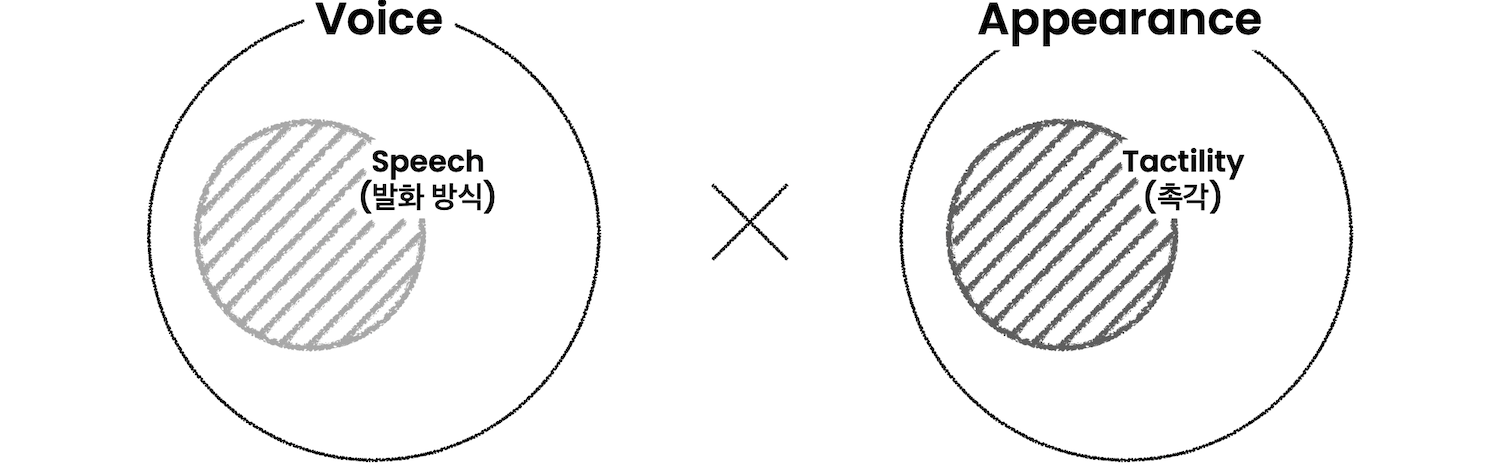
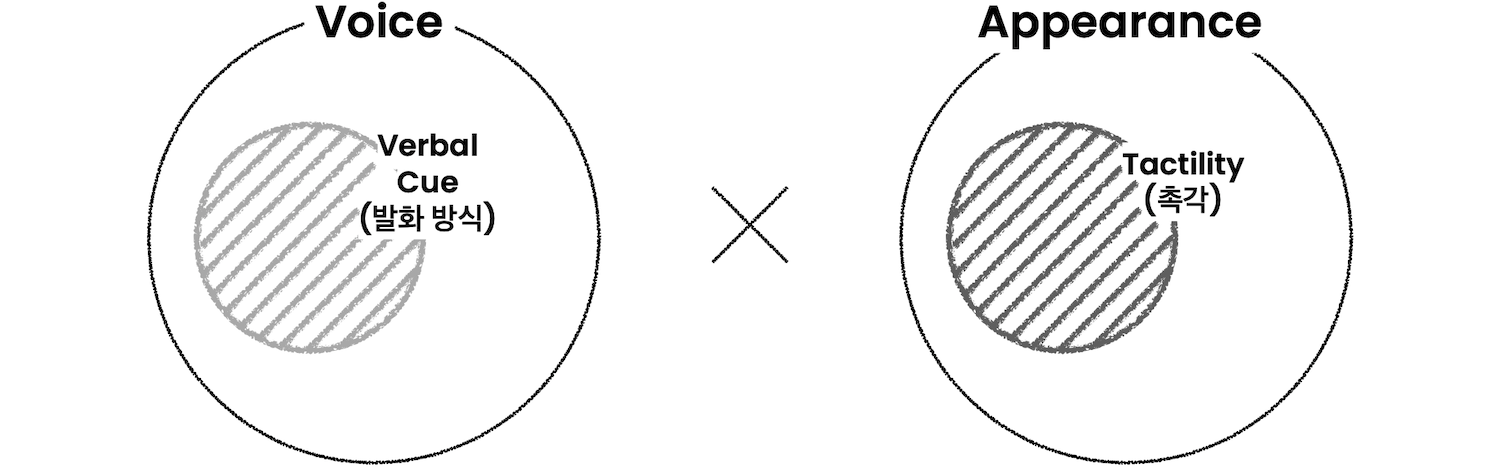
210214_1

diff --git a/_posts/projects/2021-01-01-modularsmartspeaker.md b/_posts/projects/2021-01-01-modularsmartspeaker.md
@@ -49,12 +49,12 @@ Design Question: "사람들의 **선호**에 맞게 **변경**할 수 있는 스
 <br>
 
 스마트 스피커의 **음성**을 통한 상호작용은 사용자에게 다음과 같은 영향을 준다.  
-01. 사용자는 **목소리** 기반 상호작용을 통해, 컴퓨터(스마트 스피커)를 **사회적 행위자**<sup id="F01">[<span style="color:MediumSeaGreen">1</span>](#footnote_1)</sup>로 인식한다<sup id="R01">[<span style="color:gray">1</span>](#reference_1)</sup>.  
+01. 사용자는 **음성** 기반 상호작용을 통해, 컴퓨터(스마트 스피커)를 **사회적 행위자**<sup id="F01">[<span style="color:MediumSeaGreen">1</span>](#footnote_1)</sup>로 인식한다<sup id="R01">[<span style="color:gray">1</span>](#reference_1)</sup>.  
 02. 사용자는 스마트 스피커를 **사회적 행위자**로 인식함에 따라, 특정 **관계** 형성을 기대한다<sup id="R02">[<span style="color:gray">2</span>](#reference_2)</sup>.  
 
-또한, 사용자는 같은 컴퓨터에서라도 **발화 방식**이 다르면 이를 **별개의 사회적 행위자**로 인식하며, 스마트 스피커에 대해 가장 기대하는 관계는 **비서**와 **친구**<sup id="F02">[<span style="color:MediumSeaGreen">2</span>](#footnote_2)</sup>이다<sup id="R01">[<span style="color:gray">1,</span>](#reference_1)</sup><sup id="R02">[<span style="color:gray"> 2</span>](#reference_2)</sup>.  
+또한, 사용자는 같은 컴퓨터에서라도 **음성**이 다르면 이를 **별개의 사회적 행위자**로 인식하며, 스마트 스피커에 대해 가장 기대하는 관계는 **비서**와 **친구**<sup id="F02">[<span style="color:MediumSeaGreen">2</span>](#footnote_2)</sup>이다<sup id="R01">[<span style="color:gray">1,</span>](#reference_1)</sup><sup id="R02">[<span style="color:gray"> 2</span>](#reference_2)</sup>.  
 
-<br><br>
+<br>
 <p align="center">
   <img src="/assets/images/projects/modular_smart_speaker/voice.png">
   <br>
@@ -63,10 +63,10 @@ Design Question: "사람들의 **선호**에 맞게 **변경**할 수 있는 스
 <br><br>
 
 아시아에서 음성 요소는 **관계**의 영향을 많이 받는다<sup id="R03">[<span style="color:gray">3</span>](#reference_3)</sup>.
-특히, **수평적** 관계와 **수직적** 관계에 따라 **발화 방식**이 분명하게 달라진다<sup id="R03">[<span style="color:gray">3</span>](#reference_3)</sup>.
+특히, **수평적** 관계와 **수직적** 관계에 따라 **언어적 소통(verbal communication)**<sup id="F03">[<span style="color:MediumSeaGreen">3</span>](#footnote_3)</sup>이 분명하게 달라진다<sup id="R03">[<span style="color:gray">3</span>](#reference_3)</sup>.
 한국어의 어법 문화에서는 일반적으로 **반말**과 **존댓말**로 구분할 수 있다.
 
-<br><br>
+<br>
 <p align="center">
   <img src="/assets/images/projects/modular_smart_speaker/voice2.png">
   <br>
@@ -82,10 +82,10 @@ Design Question: "사람들의 **선호**에 맞게 **변경**할 수 있는 스
 01. 촉각은 **직접적**이고 **직관적**이며 **감정 정보**를 전달하는 데 적합하다<sup id="R04">[<span style="color:gray">4</span>](#reference_4)</sup>.  
 02. 촉각은 **정서적 소통**을 더욱 풍부하게 만들고 특정 **감정을 유발**할 수 있다<sup id="R04">[<span style="color:gray">4</span>](#reference_4)</sup>.  
 
-촉각의 5가지 형용사 척도<sup id="F03">[<span style="color:MediumSeaGreen">3</span>](#footnote_3)</sup> 중, 2가지 주요 차원이자 서로 직교하는 치수는 **smooth-rough**와 **hard-soft**이다<sup id="R05">[<span style="color:gray">5</span>](#reference_5)</sup>.
-이 두 축은 텔레프레젠스 로봇의 촉각과 사회적 관계에 관한 인간-로봇 상호작용 실험에서도 **의인화**와 **비의인화** 촉각<sup id="F04">[<span style="color:MediumSeaGreen">4</span>](#footnote_4)</sup>의 기준이 되었다<sup id="R06">[<span style="color:gray">6</span>](#reference_6)</sup>.
+촉각의 5가지 형용사 척도<sup id="F04">[<span style="color:MediumSeaGreen">4</span>](#footnote_4)</sup> 중, 2가지 주요 차원이자 서로 직교하는 치수는 **smooth-rough**와 **hard-soft**이다<sup id="R05">[<span style="color:gray">5</span>](#reference_5)</sup>.
+이 두 축은 텔레프레젠스 로봇의 촉각과 사회적 관계에 관한 인간-로봇 상호작용 실험에서도 **의인화**와 **비의인화** 촉각<sup id="F05">[<span style="color:MediumSeaGreen">5</span>](#footnote_5)</sup>의 기준이 되었다<sup id="R06">[<span style="color:gray">6</span>](#reference_6)</sup>.
 
-<br><br>
+<br>
 <p align="center">
   <img src="/assets/images/projects/modular_smart_speaker/appearance.png">
   <br>
@@ -95,7 +95,7 @@ Design Question: "사람들의 **선호**에 맞게 **변경**할 수 있는 스
 
 사람과 같은 **사회적 관계**를 형성하지만 사람의 형상이 없는 스마트 스피커 또한, 두 **촉각** 축을 기반으로 사용자의 **인식**에 영향을 미치는지 알아볼 수 있다.
 
-<br><br>
+<br>
 <p align="center">
   <img src="/assets/images/projects/modular_smart_speaker/background.png">
   <br>
@@ -109,21 +109,15 @@ Design Question: "사람들의 **선호**에 맞게 **변경**할 수 있는 스
 <font size="5em">1) Research Question</font>
 <br>
 
-"스마트 스피커의 **음성 기반 상호작용**과 **발화**를 통한 관계 설정에 있어, **촉각**이 사용자의 인식에 어떤 영향을 줄 수 있을까?"
+"스마트 스피커의 **음성 기반 상호작용**과 **발화(VC)**를 통한 관계 설정에 있어, **촉각**이 사용자의 인식에 어떤 영향을 줄 수 있을까?"
 <br><br><br>
 
-<font size="5em">2) Hypothesis</font>   
-01. 스마트 스피커의 **발화**에 따라 사용자의 인식이 다를 것이다.
-02. 스마트 스피커의 **촉각**에 따라 사용자의 인식이 다를 것이다.
-03. 스마트 스피커의 **발화**에 따라 사용자가 선호하는 **촉각**이 다를 것이다.
-<br><br><br>
-
-<font size="5em">3) Research Design</font>
+<font size="5em">2) Research Design</font>
 <br>
 
-스마트 스피커의 **발화**와 **촉각**을 **모듈화** 하여 프로토타이핑한 후, 사용자 인식에 대한 **정량 조사**를 진행한다.
+스마트 스피커의 **발화(VC)**와 **촉각**을 **모듈화** 하여 프로토타이핑한 후, 사용자 인식에 대한 **정량 조사**를 진행한다.
 
-<br><br>
+<br>
 <p align="center">
   <img src="/assets/images/projects/modular_smart_speaker/goal.png">
   <br>
@@ -135,27 +129,157 @@ Design Question: "사람들의 **선호**에 맞게 **변경**할 수 있는 스
 <font size="6em">Study Design</font>
 <br>
 
+<font size="5em">1) Independent Variables</font>
+<br>
+실험 조건은 다음과 같이 총 8가지로 설정하였다.  
+01. **발화(VC)**:
+  - a. 존댓말(assistant-like)
+  - b. 반말(companion-like)  
+<br>
+02. **촉각**:
+  - a. 부드러운 천(soft+smooth)
+  - b. 거친 천(soft+rough)
+  - c. 부드러운 플라스틱(hard+smooth)
+  - d. 거친 플라스틱(hard+rough)
+
+<br>
 <p align="center">
-  <img src="/assets/images/projects/modular_smart_speaker/sd.png">
+  <img src="/assets/images/projects/modular_smart_speaker/IV.png">
   <br>
-  <font size="2em" color="gray">독립 변수: 발화 타입(2가지) X 촉각-소재(2가지) X 촉각-마감(2가지)</font>
+  <font size="2em" color="gray">독립 변수: 발화(2가지) X 촉각(4가지)</font>
+</p>
+<br><br><br>
+
+<font size="5em">2) Dependent Variables</font>
+<br>
+각 실험 조건에 대해서 아래 3가지를 측정하였다.
+측정을 통해, 사용자가 각 조건의 스마트 스피커를 얼마나 **유용**하게 생각했는지, 얼마나 **사회적인 존재**로 인지했는지, 얼마나 서비스에 대해 **만족**하는지 확인하였다.
+01. **유용성**(perceived usefulness)<sup id="R07">[<span style="color:gray">7</span>](#reference_7)</sup>
+02. **사교성**(perceived sociability)<sup id="R07">[<span style="color:gray">7</span>](#reference_7)</sup>
+03. **서비스 평가**(service evaluation)<sup id="R08">[<span style="color:gray">8</span>](#reference_8)</sup>
+
+<br>
+<p align="center">
+  <img src="/assets/images/projects/modular_smart_speaker/DV.png">
+  <br>
+  <font size="2em" color="gray">3가지 측정에 대한 아이템</font>
+</p>
+<br><br><br>
+
+<font size="5em">3) Prototype Development</font>
+<br>
+
+Wizard of Oz 실험을 위한 모듈형 스마트 스피커를 디자인하고 개발하였다.
+<br>
+
+01. 모듈형 스마트 스피커는 **전원부**와 **촉각 모듈**로 나눠질 수 있으며, 촉각 모듈은 전원부 위에 올려놓을 수 있다.
+02. 촉각 모듈은 부드러운 천, 거친 천, 부드러운 플라스틱, 거친 플라스틱으로 이루어졌으며, 총 4가지 이다.
+03. 촉각 모듈을 쉽게 탈부착할 수 있도록 전원부와 촉각 모듈 모서리에 네오디움 자석이 붙어있다.
+04. 전원부에는 아두이노, 블루투스 모듈, 스피커, 버튼, LED가 포함되어 있다.
+
+<br>
+<p align="center">
+  <img src="/assets/images/projects/modular_smart_speaker/PD.png">
+  <br>
+  <font size="2em" color="gray">사용한 소프트웨어: Solidworks, Arduino, Clova Dubbing</font>
+</p>
+<br><br><br>
+
+<font size="5em">4) Recruitment</font>
+<br>
+
+**연구실 조사(in-lab study)**로 진행되었으며, 분산분석(ANOVA)를 위해 **혼합 설계**(mixed design)하였다.
+01. **발화(VC)**: between design - 피실험자는 **한 가지** 발화만 경험한다.
+02. **촉각**: within design - 피실험자는 **네 가지** 촉각을 모두 경험한다. (랜덤 순서)
+
+
+피실험자: 48명 (23세~39세, 여성 23명, 남성 25명)
+
+<br><br><br>
+
+<font size="5em">5) Procedure</font>
+<br>
+
+피실험자는 최근 유행하는 음식, 노래, TV 프로그램에 대해 모듈형 스마트 스피커에게 질문한다.
+
+<br>
+<p align="center">
+  <img src="/assets/images/projects/modular_smart_speaker/procedure.png">
+  <br>
+  <font size="2em" color="gray">모듈형 스마트 스피커의 대사 설계</font>
 </p>
 <br><br>
 
-## Independent Variables
-독립 변수는 총 8가지 조건으로 이루어져 있다.  
-발화 타입은 사용자가 스마트 스피커에 대해 기대하는 관계 중 가장 선호하는 **비서**와 **친구**를, 촉각 특성은 **유연함**과 **부드러움** 축을 선택하여 변수로 사용하였다<sup id="R02">[<span style="color:gray">02,</span>](#reference_2)</sup><sup id="R05">[<span style="color:gray"> 05</span>](#reference_5)</sup>.
-01. 발화 타입: 비서(honorific), 친구(familiar)
-02. 유연함(flexibility): 유연한(flexible) - 단단한 (hard)
-03. 부드러움(smoothness): 부드러운(smoothness) - 거친 (rough)
+촉각 모듈을 전원부 위에 놓으면 스마트 스피커의 발화가 시작되고 피실험자는 스피커에게 촉각 모듈마다 3가지 질문을 반복한다. 
+피실험자는 각 촉각 조건에 대한 실험이 끝날때마다, 해당 촉각 모듈을 부착한 스마트 스피커의 인상 평가를 진행한다. 
+촉각 모듈의 순서는 각 피실험자에게 무작위 순서로 배정되었다.
+
+<br>
+<p align="center">
+  <img src="/assets/images/projects/modular_smart_speaker/procedure2.png">
+  <br>
+  <font size="2em" color="gray">피실험자는 무작위 순서로 배정된 촉각 모듈을 모두 경험한다.</font>
+</p>
+<br><br><br><br><br><br><br><br>
+
+
+<font size="6em">Results</font>
+<br>
+
+<font size="5em">1) Data Analysis</font>
+<br>
+
+모듈형 스마트 스피커의 유용성, 사교성 및 서비스 평가 측정은 크론바 알파 값 0.6 이상으로, 모든 문항에 대해 유의한 결과가 나왔다.
+
+<br>
+<p align="center">
+  <img src="/assets/images/projects/modular_smart_speaker/results.png">
+  <br>
+  <font size="2em" color="gray">각 측정에 대한 신뢰도 분석 후 크론바 알파 값</font>
+</p>
 <br><br>
 
-## Dependent Variables
-각 조건의 스마트 스피커에 대해서 아래 3가지 종속 변수를 측정하였다.
-01. 유용성(usefulness)<sup id="R06">[<span style="color:gray"> 06</span>](#reference_6)</sup>
-02. 사교성(sociability)<sup id="R06">[<span style="color:gray"> 06</span>](#reference_6)</sup>
-03. 서비스 평가(service evaluation)<sup id="R07">[<span style="color:gray"> 07</span>](#reference_7)</sup>
-<br><br><br><br>
+발화(VC)와 촉각에 대한 각 측정의 **주효과**를 분산분석(ANOVA)을 사용하여 해석하였다.
+
+<br>
+<p align="center">
+  <img src="/assets/images/projects/modular_smart_speaker/results2.png">
+</p>
+<br>
+<p align="center">
+  <img src="/assets/images/projects/modular_smart_speaker/results3.png">
+  <br>
+  <font size="2em" color="gray">분산분석 결과, 촉각에 대한 주효과만 존재했다.</font>
+</p>
+<br><br>
+
+발화(VC)와 촉각에 대한 각 측정의 **상호작용 효과**를 분산분석(ANOVA)을 사용하여 해석하였다.
+
+<br>
+<p align="center">
+  <img src="/assets/images/projects/modular_smart_speaker/results4.png">
+  <br>
+  <font size="2em" color="gray">//</font>
+</p>
+<br><br>
+
+전체적인 해석 ~~
+<br><br><br>
+
+<font size="5em">2) Implication</font>
+<br>
+
+~~
+스마트 스피커의 발화 유형에 따라 스마트 스피커의 질감 설정이 달라질 수 있으며, 특정 상황에서 스마트 스피커의 질감을 다르게 만들 수 있다.
+유연한 소재: 리셉션 데스크나 가정에서와 같이 상대적으로 사교적인 상황에서 적용 가능
+거친 마감: 스마트 스피커가 유용한 정보를 제공하는 상황에서 적용 가능
+<br><br><br>
+
+<font size="5em">3)Future Work</font>
+<br>
+
+앞으로 ~~
+<br><br><br><br><br><br><br><br>
 
 ---  
 **References**  
@@ -182,7 +306,8 @@ Design Question: "사람들의 **선호**에 맞게 **변경**할 수 있는 스
 
 <a name="footnote_1"><font size="2em" color="MediumSeaGreen">1.</font></a> <font size="2em">사회적 행위자(Social Actor): 사회적 행동을 수행하는 사람</font> [↩](#F01)  
 <a name="footnote_2"><font size="2em" color="MediumSeaGreen">2.</font></a> <font size="2em">비서: 51.3%, 친구: 48.7%</font> [↩](#F02)   
-<a name="footnote_3"><font size="2em" color="MediumSeaGreen">3.</font></a> <font size="2em">촉각의 5가지 형용사 척도: smooth-rough, hard-soft, cool-warm, flat-bumpy, slippery-sticky</font> [↩](#F03)   
-<a name="footnote_4"><font size="2em" color="MediumSeaGreen">4.</font></a> <font size="2em">의인화 촉각: Anthropomorphic Tactility(AT), 비의인화 촉각: Non-anthropomorphic Tactility(NAT)</font> [↩](#F04)   
+<a name="footnote_3"><font size="2em" color="MediumSeaGreen">3.</font></a> <font size="2em">언어적 의사소통(Verbal Communication, VC): 말을 통해 전달되는 메시지와 같이, 구두 의사소통의 한 유형, 비언어적 의사소통(Non-verbal Communication, NVC): 억양이나 음높이, 제스처 및 표정과 같은 말(word) 없이 단서를 주고받는 의사소통</font> [↩](#F03)   
+<a name="footnote_4"><font size="2em" color="MediumSeaGreen">4.</font></a> <font size="2em">촉각의 5가지 형용사 척도: smooth-rough, hard-soft, cool-warm, flat-bumpy, slippery-sticky</font> [↩](#F04)   
+<a name="footnote_5"><font size="2em" color="MediumSeaGreen">5.</font></a> <font size="2em">의인화 촉각: Anthropomorphic Tactility(AT), 비의인화 촉각: Non-anthropomorphic Tactility(NAT)</font> [↩](#F05)   
 
 <br><br><br>
